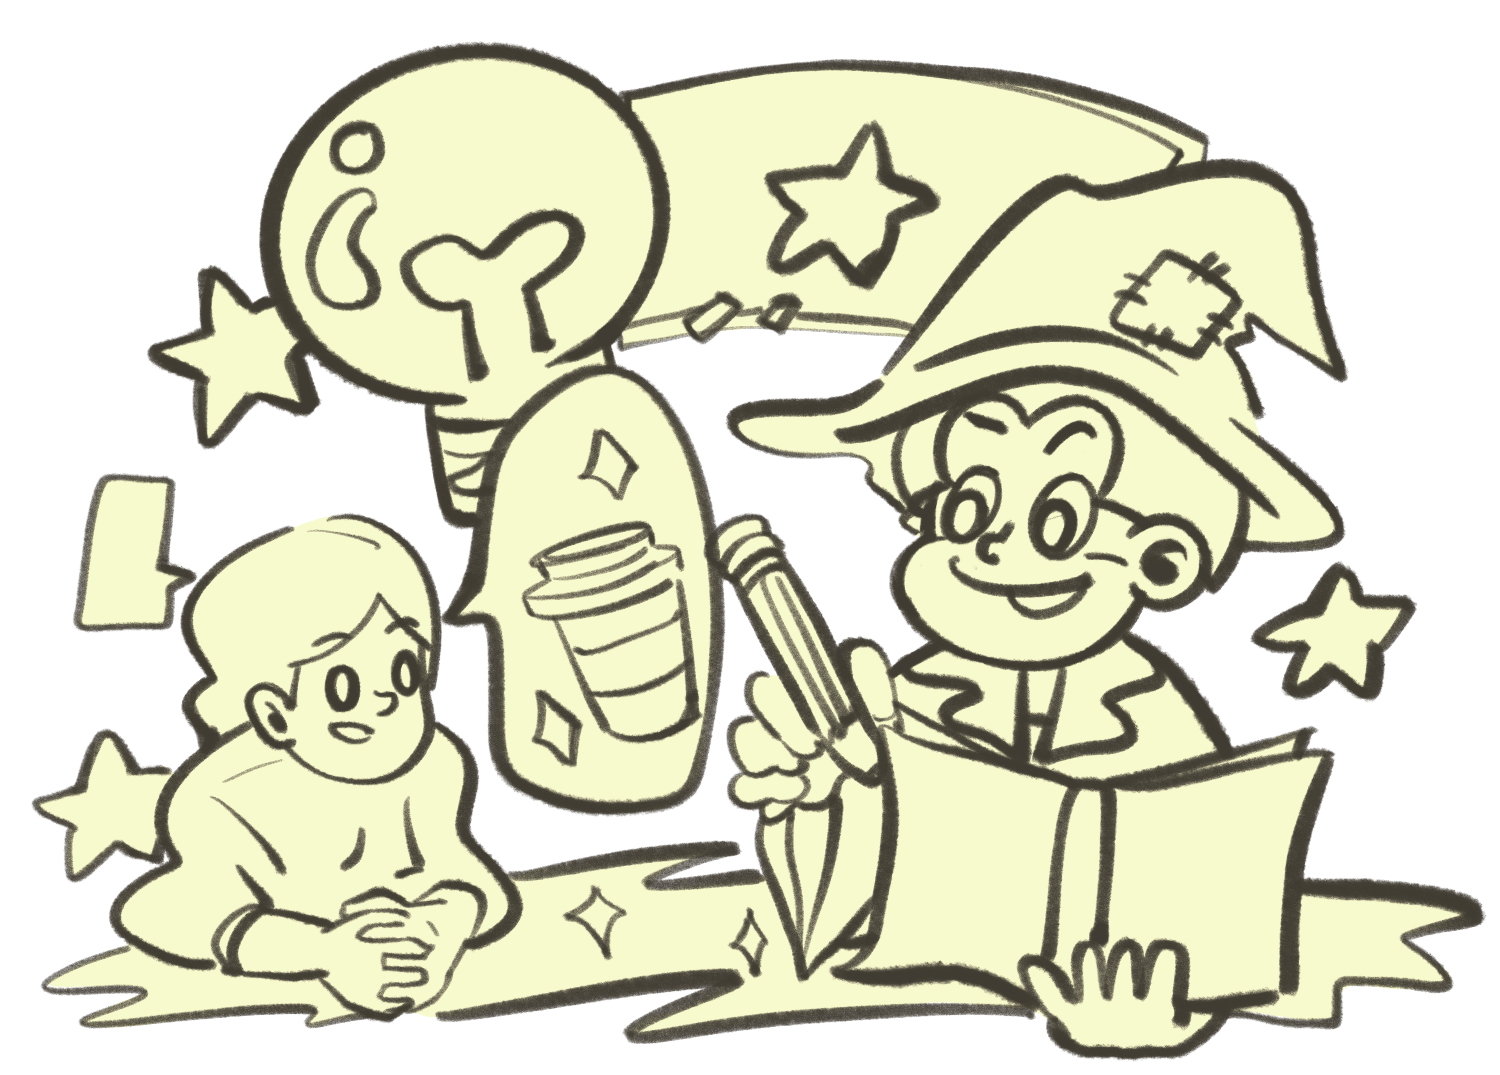
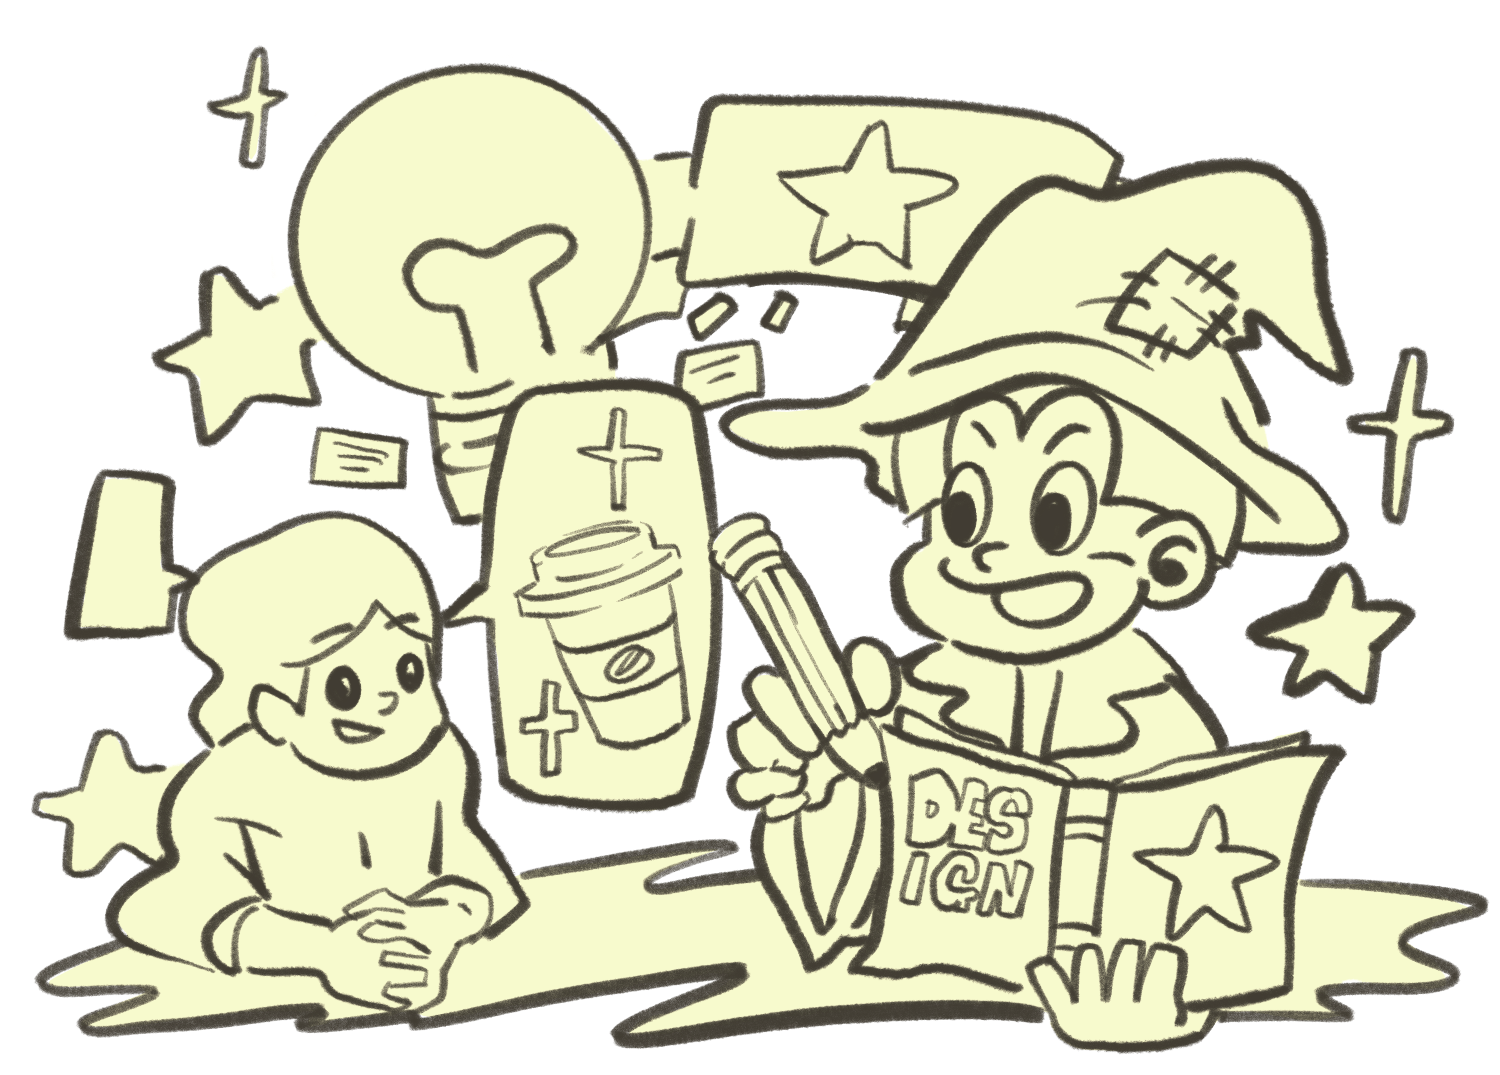
更新服務流程：替換 service 圖片（service-2, service-3, service-4, service-5），調整短描述文字樣式（深灰色背景、黃色文字、文字光暈效果）

Changed region(s): [[0.0, 0.0307, 1.0, 1.0]]

diff --git a/src/app/hero-simple-test/page.tsx b/src/app/hero-simple-test/page.tsx
@@ -2694,7 +2694,7 @@ const DreamyHero = ({ scrollY: propScrollY }: { scrollY: number }) => {
 
         {/* 1. 標題區域 - 響應式大小，現在在上方 */}
         {/* 🟢 綠線：標題容器 */}
-        <div style={{
+          <div style={{
           display: 'flex',
           flexDirection: 'column',
           alignItems: 'center',
@@ -2710,19 +2710,19 @@ const DreamyHero = ({ scrollY: propScrollY }: { scrollY: number }) => {
           boxSizing: 'border-box'
         }}>
           {/* 主標題 - 響應式字體大小 */}
-          <h1 style={{
+            <h1 style={{
             fontSize: isSmallMobile ? 'clamp(1.2rem, 4vw, 1.8rem)' : isMobile ? 'clamp(1.4rem, 4.5vw, 2.2rem)' : isTablet ? 'clamp(1.5rem, 3vh, 2.2rem)' : 'clamp(1.8rem, 4vh, 2.8rem)',
-            fontWeight: 'bold',
-            color: '#003EC3',
+              fontWeight: 'bold',
+              color: '#003EC3',
             fontFamily: 'var(--font-noto-sans-tc), sans-serif',
-            textAlign: 'center',
-            margin: 0,
-            letterSpacing: '0.1em',
+              textAlign: 'center',
+              margin: 0,
+              letterSpacing: '0.1em',
             lineHeight: '1.2',
             width: '100%'
-          }}>
-            <TypewriterText text="Own the Day." speed={150} />
-          </h1>
+            }}>
+              <TypewriterText text="Own the Day." speed={150} />
+            </h1>
           
           {/* 副標題 - 響應式字體大小 */}
           <h2 style={{
@@ -2738,7 +2738,7 @@ const DreamyHero = ({ scrollY: propScrollY }: { scrollY: number }) => {
           }}>
             <TypewriterText text="掌握今天，開始設計" speed={200} delay={2000} />
           </h2>
-        </div>
+          </div>
 
         {/* 2. 船隻圖片 + 海浪 - 響應式大小，等比例縮放，現在在下方 */}
         {/* 🔵 藍線：船隻容器 */}
@@ -2843,22 +2843,22 @@ const DreamyHero = ({ scrollY: propScrollY }: { scrollY: number }) => {
 
 
         {/* 雲朵裝飾 - Hero區域3朵 */}
-        <div style={{
-          position: 'absolute',
+          <div style={{
+            position: 'absolute',
           top: '10%',
           right: '15%',
           width: '60px',
           height: '60px',
           backgroundImage: 'url(/cloud-big.png)',
-          backgroundSize: 'contain',
-          backgroundRepeat: 'no-repeat',
-          backgroundPosition: 'center',
+            backgroundSize: 'contain',
+            backgroundRepeat: 'no-repeat',
+            backgroundPosition: 'center',
           animation: 'floatCloud 8s ease-in-out infinite',
-          opacity: starOpacity,
+            opacity: starOpacity,
           zIndex: 1, // 降低 z-index，確保在船隻和文字（z-index: 20）下方
           pointerEvents: 'none',
-          transition: 'opacity 0.1s ease-out'
-        }}></div>
+            transition: 'opacity 0.1s ease-out'
+          }}></div>
         <div style={{
           position: 'absolute',
           top: '25%',
@@ -5730,9 +5730,9 @@ export default function HeroSimpleTest() {
           {[
             { step: 1, src: '/service-1.png', alt: 'Step 1 Illustration' },
             { step: 2, src: '/service-2.png', alt: 'Step 2 Illustration' },
-            { step: 3, src: '/service-1.png', alt: 'Step 3 Illustration' },
-            { step: 4, src: '/service-2.png', alt: 'Step 4 Illustration' },
-            { step: 5, src: '/service-1.png', alt: 'Step 5 Illustration' }
+            { step: 3, src: '/service-3.png', alt: 'Step 3 Illustration' },
+            { step: 4, src: '/service-4.png', alt: 'Step 4 Illustration' },
+            { step: 5, src: '/service-5.png', alt: 'Step 5 Illustration' }
           ].map((item) => (
             <div
               key={`svc-bg-${item.step}`}
@@ -5766,9 +5766,9 @@ export default function HeroSimpleTest() {
           {[
             { step: 1, src: '/service-1.png', alt: 'Step 1 Illustration' },
             { step: 2, src: '/service-2.png', alt: 'Step 2 Illustration' },
-            { step: 3, src: '/service-1.png', alt: 'Step 3 Illustration' },
-            { step: 4, src: '/service-2.png', alt: 'Step 4 Illustration' },
-            { step: 5, src: '/service-1.png', alt: 'Step 5 Illustration' }
+            { step: 3, src: '/service-3.png', alt: 'Step 3 Illustration' },
+            { step: 4, src: '/service-4.png', alt: 'Step 4 Illustration' },
+            { step: 5, src: '/service-5.png', alt: 'Step 5 Illustration' }
           ].map((item) => (
             <img
               key={`svc-illu-inline-${item.step}`}
@@ -5813,15 +5813,16 @@ export default function HeroSimpleTest() {
           }}>
             <div style={{
               display: 'inline-block',
-              backgroundColor: '#FFFFFF',
-              color: '#000000',
+              backgroundColor: '#353535', // 深灰色實色背景（與 footer 一致），像夜晚的深色
+              color: '#fdd000', // 黃色文字
               padding: isMobile ? 'clamp(8px, 2vw, 12px) clamp(16px, 4vw, 24px)' : 'clamp(10px, 1.5vw, 16px) clamp(20px, 3vw, 32px)',
               borderRadius: '8px',
               fontSize: isMobile ? 'clamp(0.9rem, 2.5vw, 1.1rem)' : 'clamp(1rem, 1.5vw, 1.2rem)',
               fontWeight: '500',
               fontFamily: 'var(--font-noto-sans-tc), sans-serif',
               transition: 'opacity 0.3s ease-in-out',
-              boxShadow: '0 2px 8px rgba(0, 0, 0, 0.1)'
+              boxShadow: '0 2px 8px rgba(0, 0, 0, 0.3)', // 只保留基本陰影
+              textShadow: '0 0 10px rgba(253, 208, 0, 0.8), 0 0 20px rgba(253, 208, 0, 0.6), 0 0 30px rgba(253, 208, 0, 0.4)' // 文字光暈效果
             }}>
               {(() => {
                 const stepDescriptions: { [key: number]: string } = {
